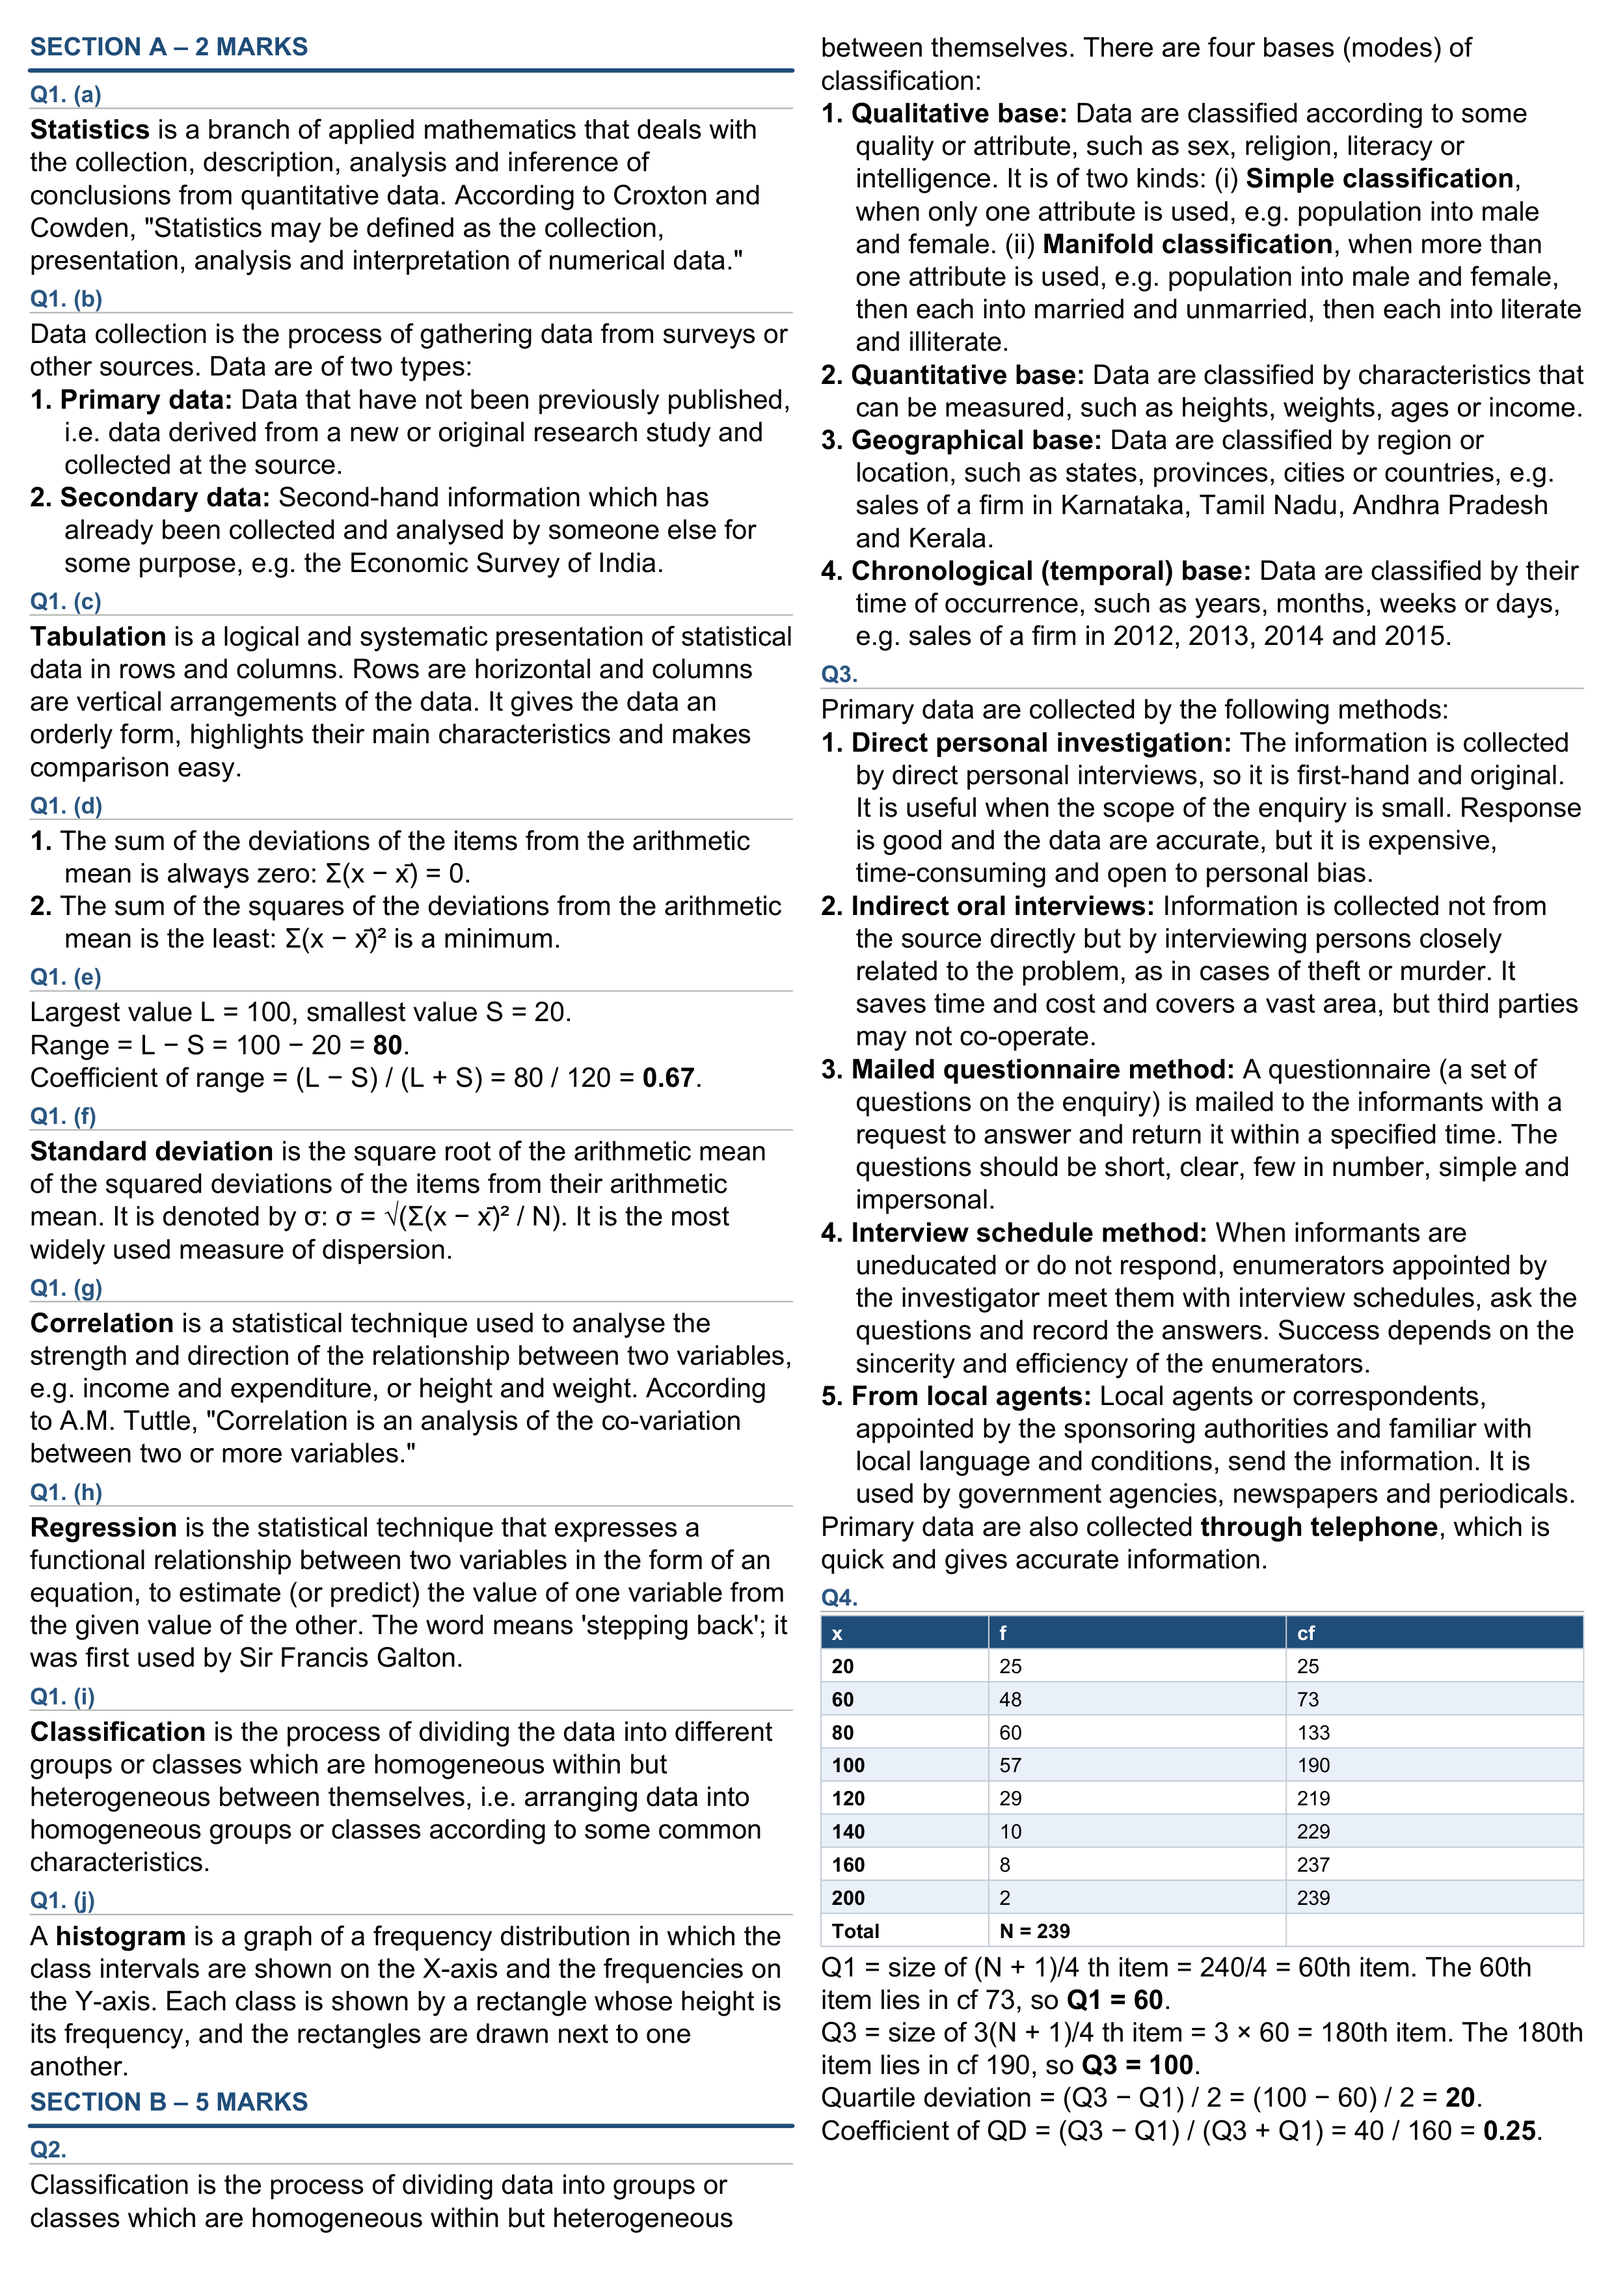
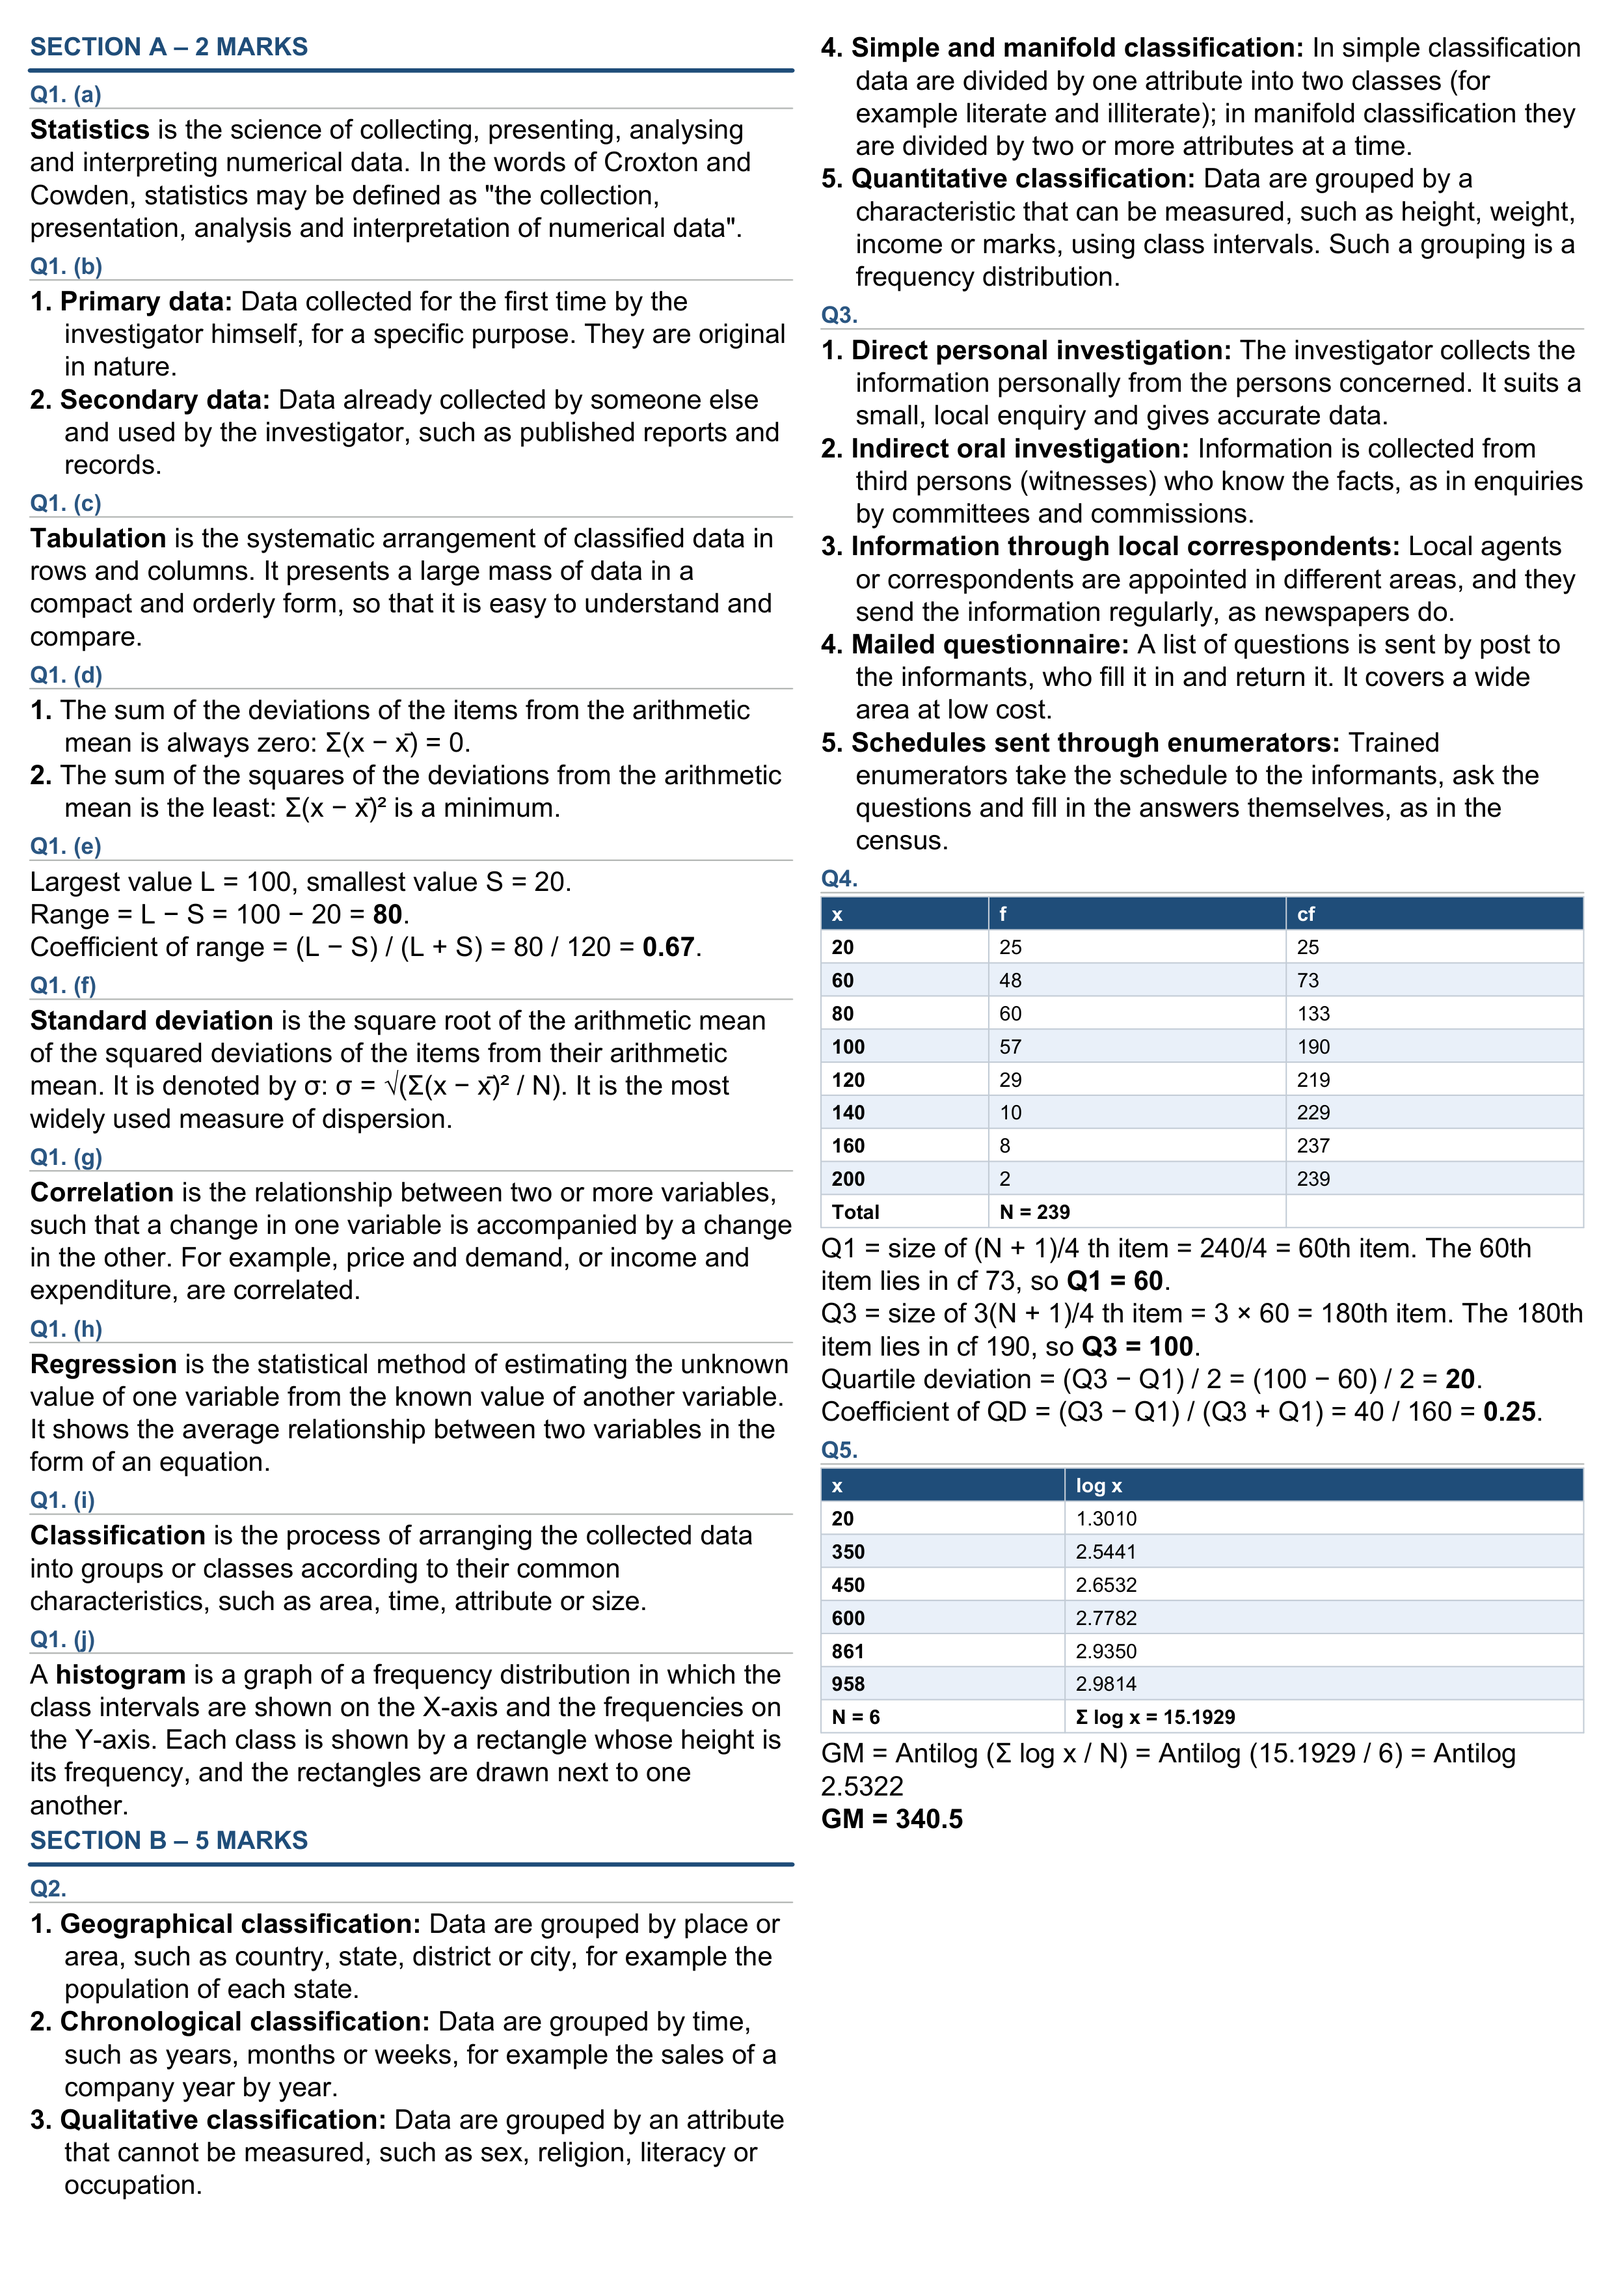
Statistics 54322: back to the first version of the answers.
The answers, PDF and page images are restored from 6247566. The teacher's
notes added in 77189a2 stay in notes/business-statistics/.

diff --git a/papers/business-statistics-54322/answers.md b/papers/business-statistics-54322/answers.md
@@ -8,15 +8,14 @@
 # SECTION A – 2 MARKS
 
 ## Q1. (a)
-**Statistics** is a branch of applied mathematics that deals with the collection, description, analysis and inference of conclusions from quantitative data. According to Croxton and Cowden, "Statistics may be defined as the collection, presentation, analysis and interpretation of numerical data."
+**Statistics** is the science of collecting, presenting, analysing and interpreting numerical data. In the words of Croxton and Cowden, statistics may be defined as "the collection, presentation, analysis and interpretation of numerical data".
 
 ## Q1. (b)
-Data collection is the process of gathering data from surveys or other sources. Data are of two types:
-1. **Primary data:** Data that have not been previously published, i.e. data derived from a new or original research study and collected at the source.
-2. **Secondary data:** Second-hand information which has already been collected and analysed by someone else for some purpose, e.g. the Economic Survey of India.
+1. **Primary data:** Data collected for the first time by the investigator himself, for a specific purpose. They are original in nature.
+2. **Secondary data:** Data already collected by someone else and used by the investigator, such as published reports and records.
 
 ## Q1. (c)
-**Tabulation** is a logical and systematic presentation of statistical data in rows and columns. Rows are horizontal and columns are vertical arrangements of the data. It gives the data an orderly form, highlights their main characteristics and makes comparison easy.
+**Tabulation** is the systematic arrangement of classified data in rows and columns. It presents a large mass of data in a compact and orderly form, so that it is easy to understand and compare.
 
 ## Q1. (d)
 1. The sum of the deviations of the items from the arithmetic mean is always zero: Σ(x − x̄) = 0.
@@ -33,13 +32,13 @@ Coefficient of range = (L − S) / (L + S) = 80 / 120 = **0.67**.
 **Standard deviation** is the square root of the arithmetic mean of the squared deviations of the items from their arithmetic mean. It is denoted by σ: σ = √(Σ(x − x̄)² / N). It is the most widely used measure of dispersion.
 
 ## Q1. (g)
-**Correlation** is a statistical technique used to analyse the strength and direction of the relationship between two variables, e.g. income and expenditure, or height and weight. According to A.M. Tuttle, "Correlation is an analysis of the co-variation between two or more variables."
+**Correlation** is the relationship between two or more variables, such that a change in one variable is accompanied by a change in the other. For example, price and demand, or income and expenditure, are correlated.
 
 ## Q1. (h)
-**Regression** is the statistical technique that expresses a functional relationship between two variables in the form of an equation, to estimate (or predict) the value of one variable from the given value of the other. The word means 'stepping back'; it was first used by Sir Francis Galton.
+**Regression** is the statistical method of estimating the unknown value of one variable from the known value of another variable. It shows the average relationship between two variables in the form of an equation.
 
 ## Q1. (i)
-**Classification** is the process of dividing the data into different groups or classes which are homogeneous within but heterogeneous between themselves, i.e. arranging data into homogeneous groups or classes according to some common characteristics.
+**Classification** is the process of arranging the collected data into groups or classes according to their common characteristics, such as area, time, attribute or size.
 
 ## Q1. (j)
 A **histogram** is a graph of a frequency distribution in which the class intervals are shown on the X-axis and the frequencies on the Y-axis. Each class is shown by a rectangle whose height is its frequency, and the rectangles are drawn next to one another.
@@ -47,25 +46,18 @@ A **histogram** is a graph of a frequency distribution in which the class interv
 # SECTION B – 5 MARKS
 
 ## Q2.
-Classification is the process of dividing data into groups or classes which are homogeneous within but heterogeneous between themselves. There are four bases (modes) of classification:
-
-1. **Qualitative base:** Data are classified according to some quality or attribute, such as sex, religion, literacy or intelligence. It is of two kinds:
-   (i) **Simple classification**, when only one attribute is used, e.g. population into male and female.
-   (ii) **Manifold classification**, when more than one attribute is used, e.g. population into male and female, then each into married and unmarried, then each into literate and illiterate.
-2. **Quantitative base:** Data are classified by characteristics that can be measured, such as heights, weights, ages or income.
-3. **Geographical base:** Data are classified by region or location, such as states, provinces, cities or countries, e.g. sales of a firm in Karnataka, Tamil Nadu, Andhra Pradesh and Kerala.
-4. **Chronological (temporal) base:** Data are classified by their time of occurrence, such as years, months, weeks or days, e.g. sales of a firm in 2012, 2013, 2014 and 2015.
+1. **Geographical classification:** Data are grouped by place or area, such as country, state, district or city, for example the population of each state.
+2. **Chronological classification:** Data are grouped by time, such as years, months or weeks, for example the sales of a company year by year.
+3. **Qualitative classification:** Data are grouped by an attribute that cannot be measured, such as sex, religion, literacy or occupation.
+4. **Simple and manifold classification:** In simple classification data are divided by one attribute into two classes (for example literate and illiterate); in manifold classification they are divided by two or more attributes at a time.
+5. **Quantitative classification:** Data are grouped by a characteristic that can be measured, such as height, weight, income or marks, using class intervals. Such a grouping is a frequency distribution.
 
 ## Q3.
-Primary data are collected by the following methods:
-
-1. **Direct personal investigation:** The information is collected by direct personal interviews, so it is first-hand and original. It is useful when the scope of the enquiry is small. Response is good and the data are accurate, but it is expensive, time-consuming and open to personal bias.
-2. **Indirect oral interviews:** Information is collected not from the source directly but by interviewing persons closely related to the problem, as in cases of theft or murder. It saves time and cost and covers a vast area, but third parties may not co-operate.
-3. **Mailed questionnaire method:** A questionnaire (a set of questions on the enquiry) is mailed to the informants with a request to answer and return it within a specified time. The questions should be short, clear, few in number, simple and impersonal.
-4. **Interview schedule method:** When informants are uneducated or do not respond, enumerators appointed by the investigator meet them with interview schedules, ask the questions and record the answers. Success depends on the sincerity and efficiency of the enumerators.
-5. **From local agents:** Local agents or correspondents, appointed by the sponsoring authorities and familiar with local language and conditions, send the information. It is used by government agencies, newspapers and periodicals.
-
-Primary data are also collected **through telephone**, which is quick and gives accurate information.
+1. **Direct personal investigation:** The investigator collects the information personally from the persons concerned. It suits a small, local enquiry and gives accurate data.
+2. **Indirect oral investigation:** Information is collected from third persons (witnesses) who know the facts, as in enquiries by committees and commissions.
+3. **Information through local correspondents:** Local agents or correspondents are appointed in different areas, and they send the information regularly, as newspapers do.
+4. **Mailed questionnaire:** A list of questions is sent by post to the informants, who fill it in and return it. It covers a wide area at low cost.
+5. **Schedules sent through enumerators:** Trained enumerators take the schedule to the informants, ask the questions and fill in the answers themselves, as in the census.
 
 ## Q4.
 | x | f | cf |

diff --git a/TASKS.md b/TASKS.md
@@ -40,3 +40,4 @@ Open items first. When a task is finished, move it to Done with the date. Dates 
 - 2026-11-09: Session record `sessions/2026-11-06-accounting-standards.md` added and merged into `main`.
 - 2026-11-09: Business Statistics Q.P. 54322 solved: 1(a)-(j), Q2-Q7, Q10-Q12. Print PDF, 2 pages, no blank pages (his choice). `render.py` now keeps tables up to 300 pt whole, with their heading and a short lead-in.
 - 2026-11-09: Statistics 54322 theory answers (1(a)-(c), (g)-(i), Q2, Q3) redone in the words of the teacher's notes; Module 4 and the 39-page Statistics notes added to `notes/business-statistics/`.
+- 2026-11-09: At his request the Statistics 54322 answers went back to the first version (standard textbook wording). The teacher's notes stay in `notes/business-statistics/`.
